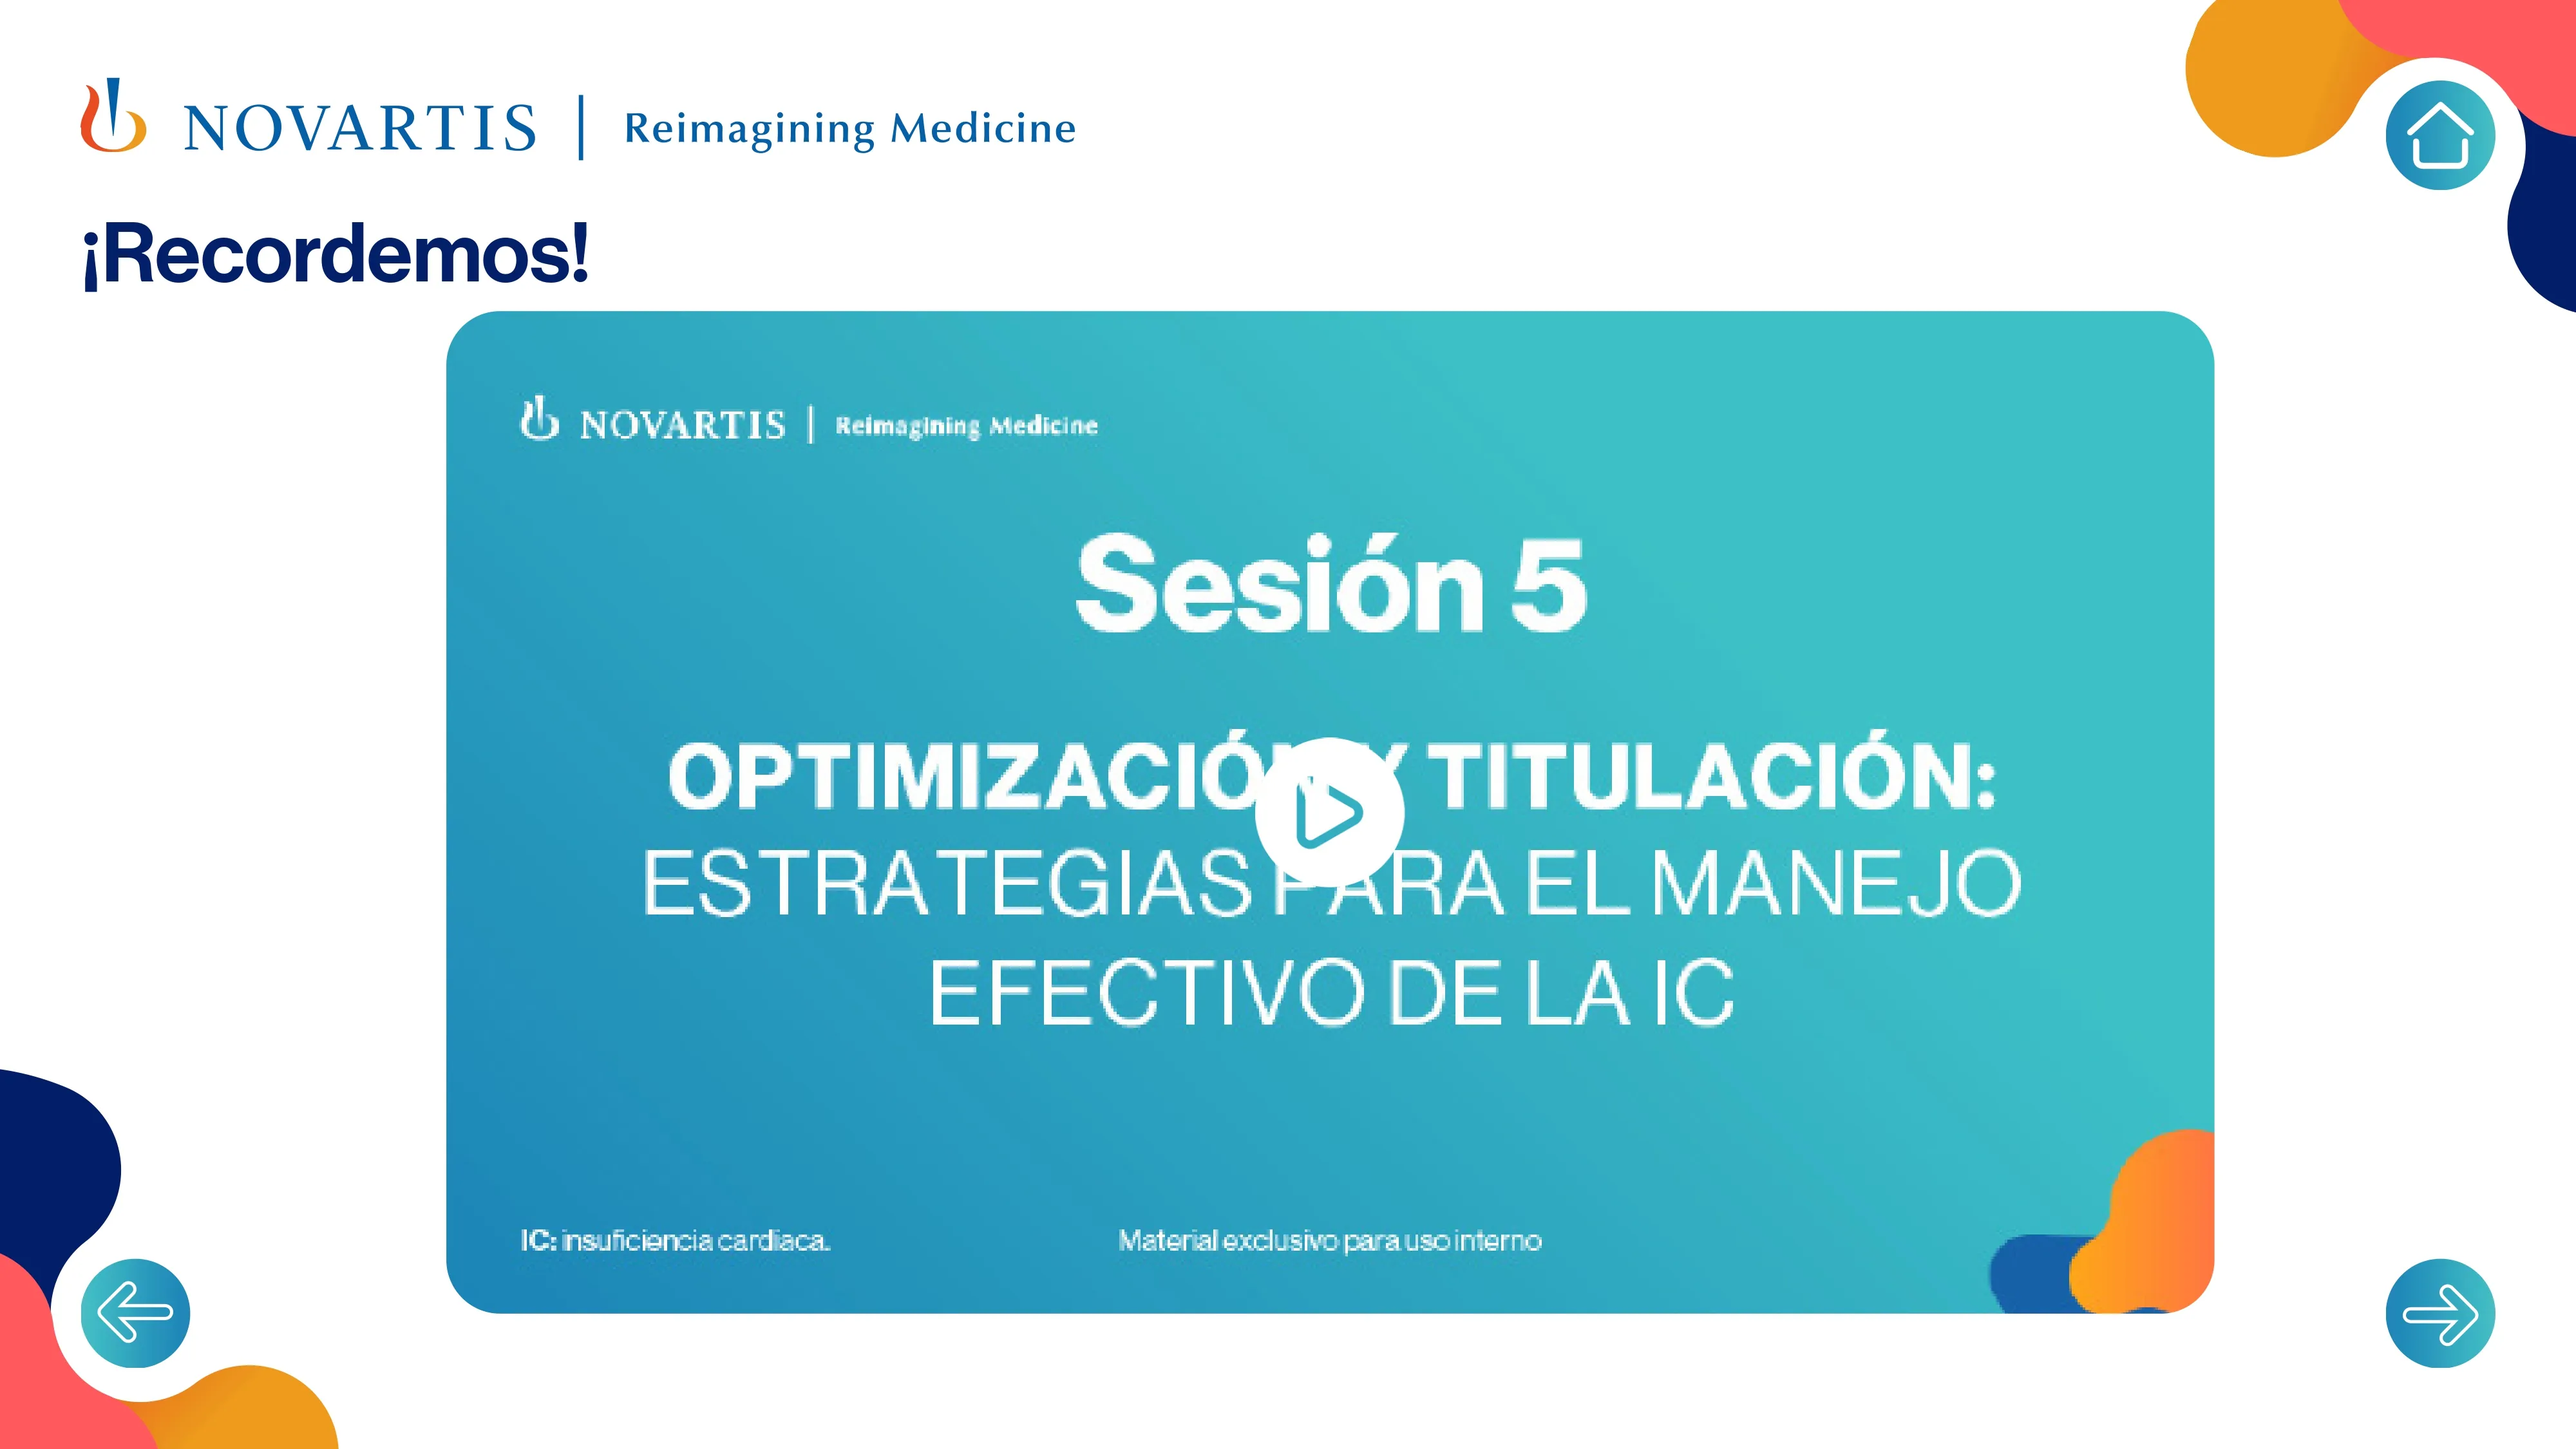
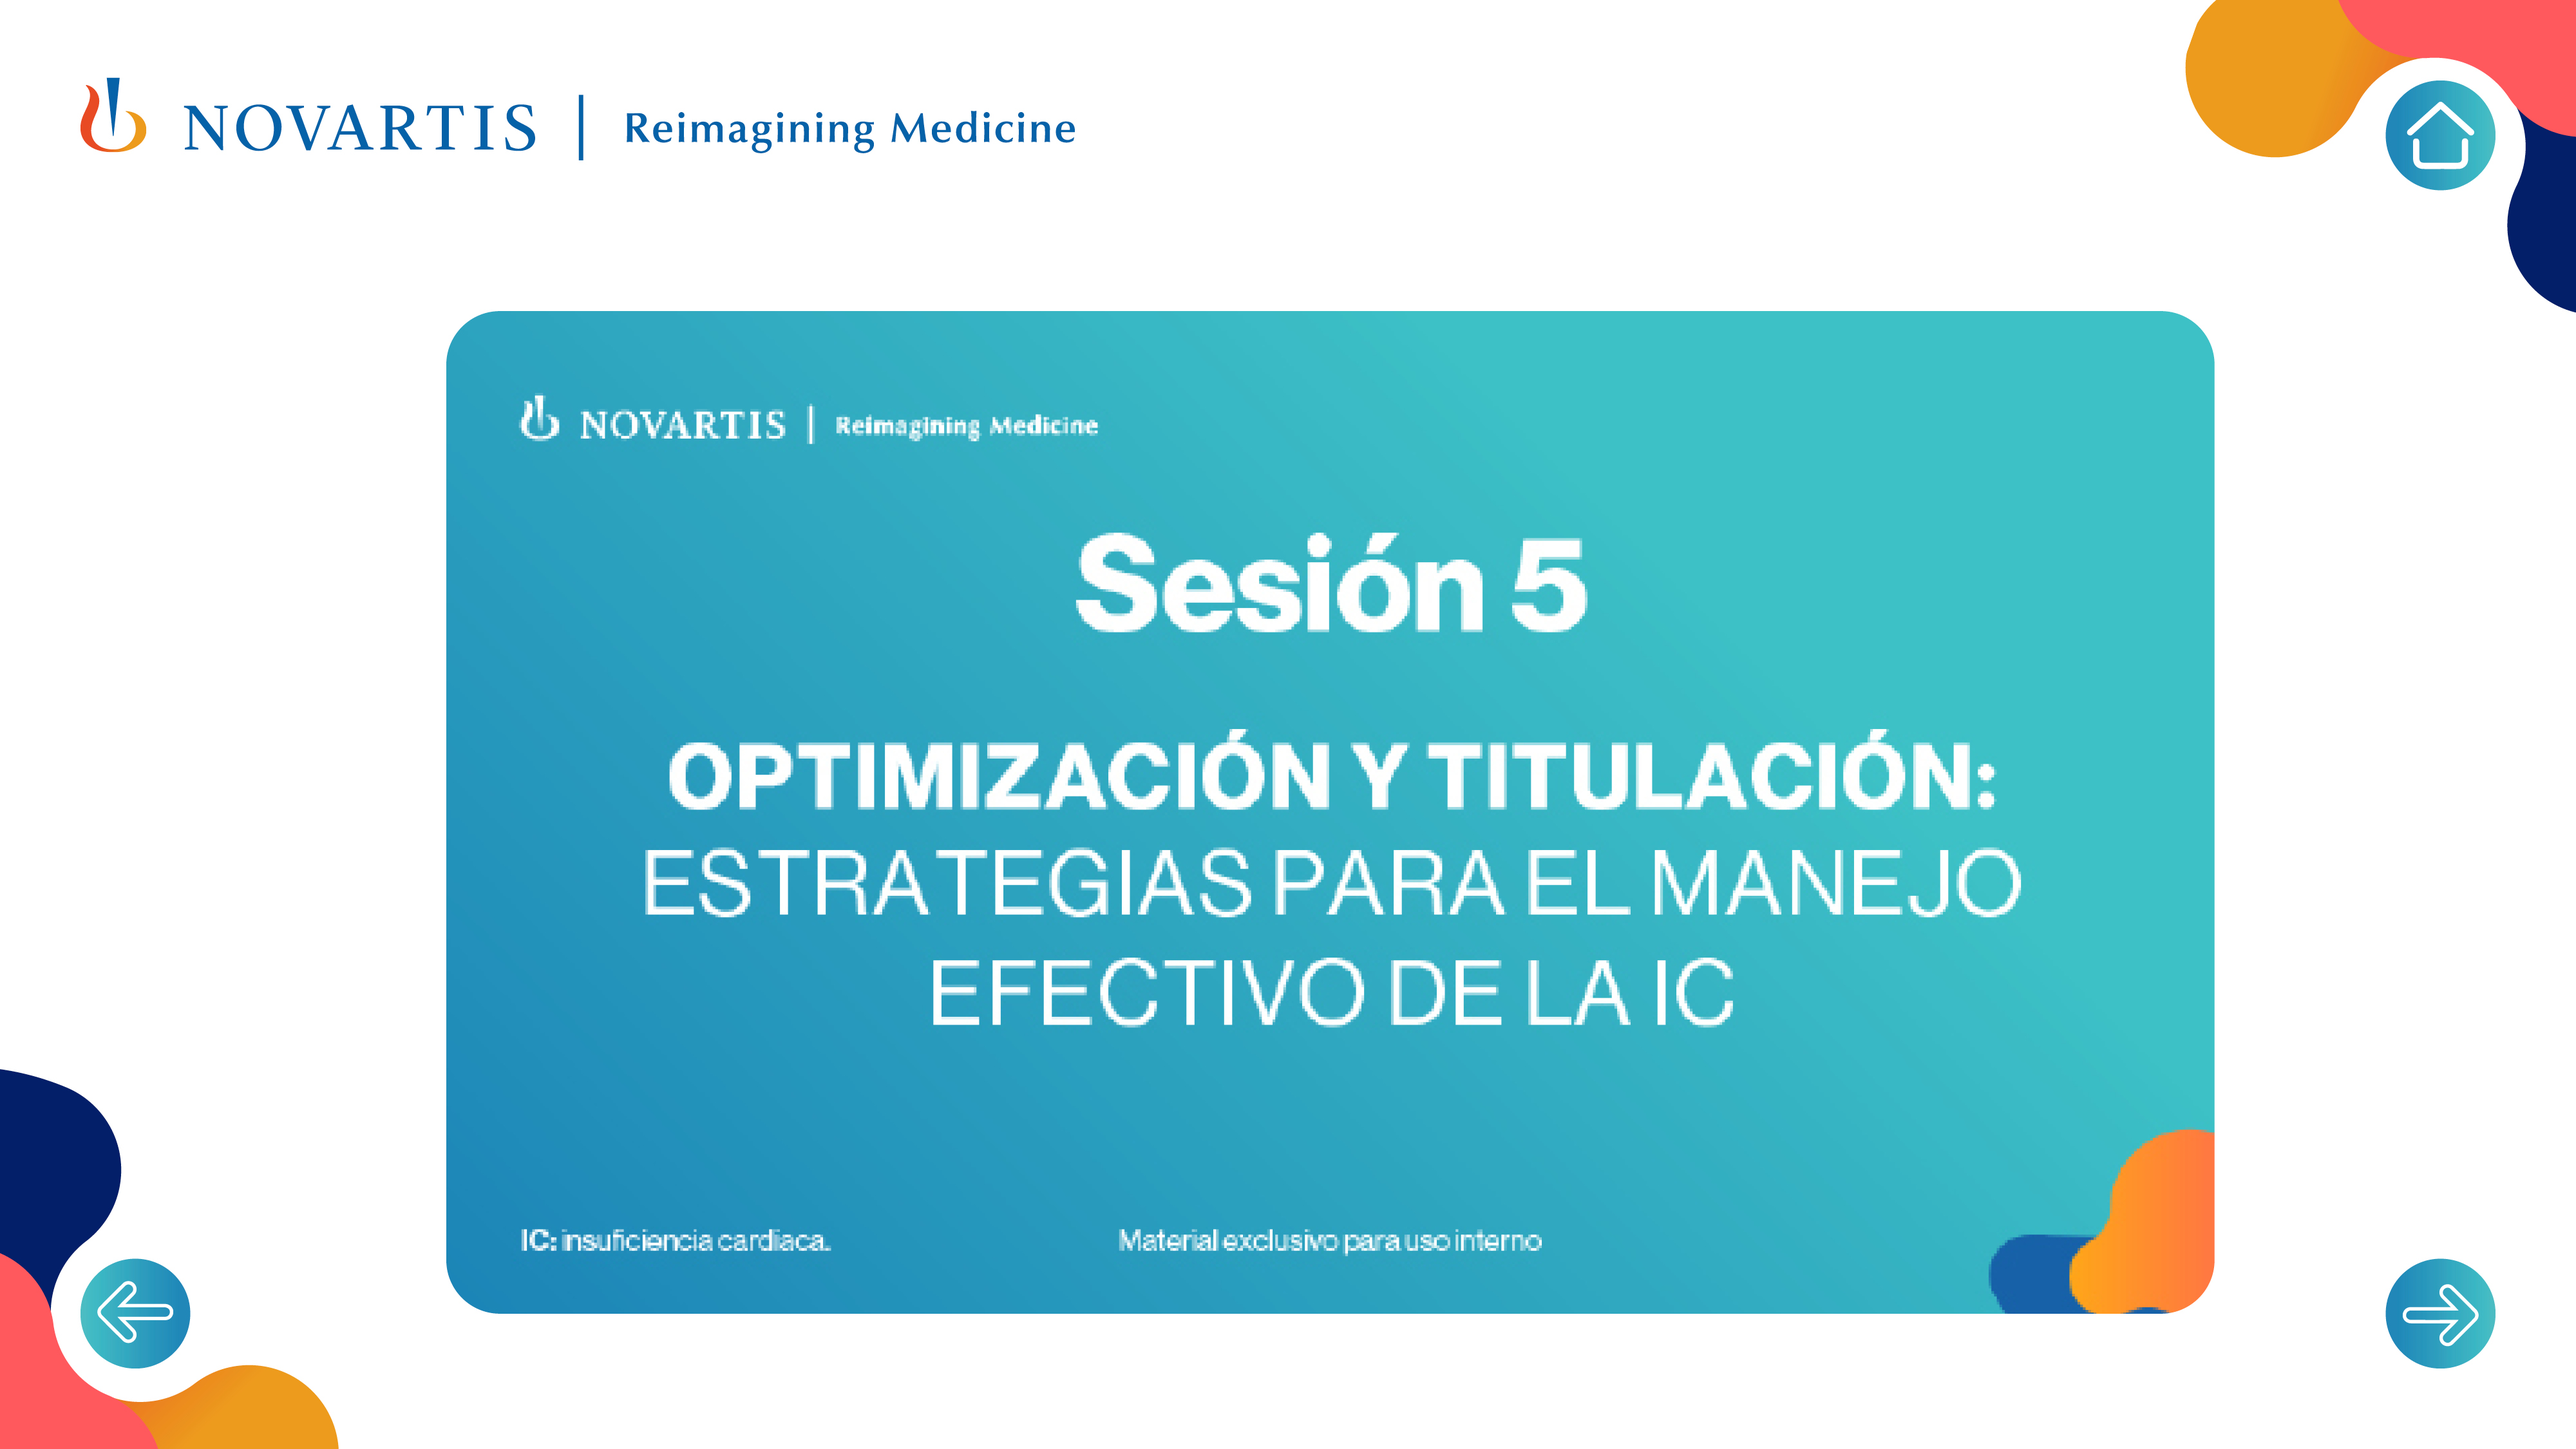
first commit m

diff --git a/css/styles308.css b/css/styles308.css
@@ -1,0 +1,115 @@
+
+body {
+	margin: 0;
+	height: 100vh;
+	overflow: hidden;
+	display: flex;
+	justify-content: center;
+	align-items: center;
+	background: #000000;
+}
+
+.container {
+	display: flex;
+	justify-content: center;
+	align-items: center;
+	position: relative;
+}
+
+.container .cover-image {
+	width: auto;
+	height: 100vh;
+}
+
+.start-button {
+	position: absolute;
+	top: 0%;
+	left: 0%;
+	width: 100%;
+	height: 100%;
+}
+
+.boton-home {
+	position: absolute;
+	width: 6%;
+	height: 10%;
+	top: 4%;
+	right: 2%;
+}
+
+.boton-atras {
+	position: absolute;
+	width: 6%;
+	height: 10%;
+	top: 85%;
+	left: 2%;
+}
+
+.boton-next {
+	position: absolute;
+	width: 6%;
+	height: 10%;
+	top: 85%;
+	right: 2%;
+}
+
+
+/* Definimos la animación para el resplandor */
+@keyframes pulseGlow {
+	0% {
+		transform: scale(1);
+		opacity: 0.7;
+	}
+	50% {
+		transform: scale(1.5);
+		opacity: 0.3;
+	}
+	100% {
+		transform: scale(1);
+		opacity: 0.7;
+	}
+}
+
+/* Responsive */
+@media (max-width: 1365px) and (min-height: 768px) {
+	.container {
+		width: 100vw;
+		height: auto;
+	}
+
+	.container .cover-image {
+		width: auto;
+		height: 100vh;
+	}
+}
+
+@media (max-height: 767px) {
+	.container {
+		width: auto;
+		height: 100vh;
+	}
+}
+
+@media (min-height: 625px) and (max-height: 1280px) and (max-width: 1024px) {
+	.container {
+		width: 100vw;
+		height: auto;
+	}
+
+	.container .cover-image {
+		width: 100vw;
+		height: auto;
+	}
+}
+
+@media (max-height: 624px) and (max-width: 767px) {
+	.container {
+		width: 100vw;
+		height: auto;
+	}
+
+	.container .cover-image {
+		width: 100vw;
+		height: auto;
+	}
+}

diff --git a/index308.html b/index308.html
@@ -5,7 +5,7 @@
 		<meta name="viewport" content="width=device-width, initial-scale=1.0" />
 		<title>Estructura, sesión 5 Entresto</title>
 
-		<link rel="stylesheet" href="./css/styles294.css" />
+		<link rel="stylesheet" href="./css/styles308.css" />
 		<!-- Scripts -->
 		<script src="./js/jquery-3.2.1.min.js"></script>
 		<script src="./js/functions.js"></script>
@@ -13,13 +13,13 @@
 	<body class="ancho">
 		<div class="container">
 			<img
-				src="./imagenes/portada2944.webp"
+				src="./imagenes/portada308.jpg"
 				alt="Portada"
 				class="cover-image" />
 
 			<a href="./index.html" class="boton-home"></a>
-			<a href="./index308.html" class="boton-atras"></a>
-			<a href="./index295.html" class="boton-next"></a>
+			<a href="./index293.html" class="boton-atras"></a>
+			<a href="./index294.html" class="boton-next"></a>
 		</div>
 
 		<!-- Scripts -->

diff --git a/index293.html b/index293.html
@@ -22,7 +22,7 @@
 
 			<a href="./index.html" class="boton-home"></a>
 			<a href="./index292.html" class="boton-atras"></a>
-			<a href="./index294.html" class="boton-next"></a>
+			<a href="./index308.html" class="boton-next"></a>
 
 			<!-- Buttoms -->
 			<div class="abrir1" id="abrir1">
